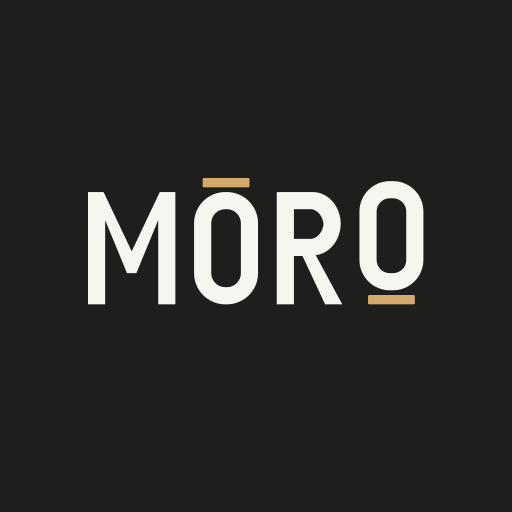
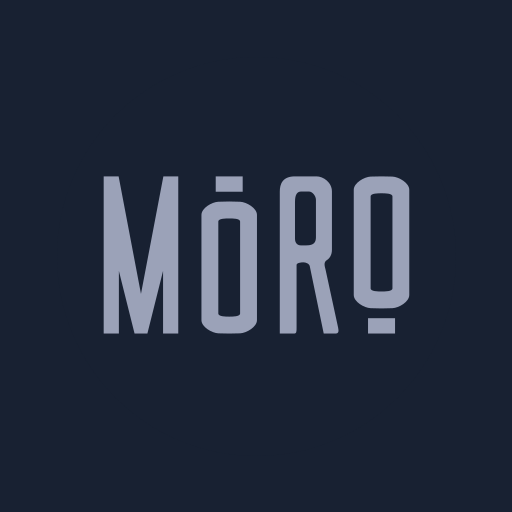
feat(moro): identidad visual definitiva Azul Noche (#182132) + Gris Hielo (#9BA2B8), 15 assets oficiales y ZPL ^GFA 1-bit

Changed region(s): [[0.1562, 0.3438, 0.8438, 0.6562]]

diff --git a/src/produccion/scripts/migrarPerfilesOperativosNodos.js b/src/produccion/scripts/migrarPerfilesOperativosNodos.js
@@ -184,12 +184,121 @@ async function migrarPerfilesOperativosNodos(opciones = {}) {
                     color_primario: nuevoColor
                 });
             }
+        } else if (slugLower === 'moro') {
+            const yaEsLocales = String(row.perfil_operativo || '').trim() === 'LOCALES';
+            const tieneModulos = row.modulos_activos && typeof row.modulos_activos === 'object' && Object.keys(row.modulos_activos).length > 0;
+            const tieneNuevasPerillas = Boolean(row.modulos_activos?.abastecimiento_modo && row.modulos_activos?.etiqueta_zpl_formato);
+
+            const tvActual = (row.tema_visual && typeof row.tema_visual === 'object') ? row.tema_visual : {};
+            const cfgZplActual = (row.logo_zpl_config && typeof row.logo_zpl_config === 'object') ? row.logo_zpl_config : {};
+            const temaOficial = nodosService.TEMA_VISUAL_MORO_OFICIAL;
+            const cfgZplOficial = nodosService.LOGO_ZPL_CONFIG_MORO_OFICIAL;
+            const zebraDataUrl = nodosService.leerLogoZebraMoroDataUrl();
+            const gfaBytesPerRow = Math.ceil(cfgZplOficial.width / 8);
+            const gfaTotalBytes = gfaBytesPerRow * cfgZplOficial.height;
+            const gfaPrefixOficial = `^GFA,${gfaTotalBytes},${gfaTotalBytes},${gfaBytesPerRow},`;
+
+            const colorPrimarioActual = String(row.color_primario || '').trim().toLowerCase();
+            const faltaIdentidadOficialMoro =
+                !colorPrimarioActual ||
+                colorPrimarioActual === '#1e1e1c' ||
+                colorPrimarioActual !== '#182132' ||
+                tvActual?.logo_incluye_texto !== true ||
+                tvActual?.logos?.principal !== temaOficial.logos.principal ||
+                tvActual?.logos?.horizontal !== temaOficial.logos.horizontal ||
+                tvActual?.logos?.vertical !== temaOficial.logos.vertical ||
+                tvActual?.logos?.isotipo !== temaOficial.logos.isotipo ||
+                tvActual?.logos?.og_share !== temaOficial.logos.og_share ||
+                tvActual?.logos?.favicon_svg !== temaOficial.logos.favicon_svg ||
+                tvActual?.paleta?.primario !== temaOficial.paleta.primario ||
+                tvActual?.paleta?.primario_oscuro !== temaOficial.paleta.primario_oscuro ||
+                tvActual?.paleta?.terracota !== temaOficial.paleta.terracota ||
+                tvActual?.paleta?.fondo !== temaOficial.paleta.fondo ||
+                tvActual?.paleta?.superficie_calida !== temaOficial.paleta.superficie_calida ||
+                tvActual?.paleta?.ocre !== temaOficial.paleta.ocre ||
+                tvActual?.paleta?.amarillo_sol !== temaOficial.paleta.amarillo_sol ||
+                tvActual?.paleta?.pistacho !== temaOficial.paleta.pistacho ||
+                tvActual?.paleta?.borde !== temaOficial.paleta.borde ||
+                cfgZplActual?.modo_cabecera !== 'banner_completo' ||
+                Number(cfgZplActual?.width || 0) !== cfgZplOficial.width ||
+                Number(cfgZplActual?.height || 0) !== cfgZplOficial.height ||
+                Number(cfgZplActual?.padding ?? -1) !== cfgZplOficial.padding ||
+                !String(row.logo_zpl_gfa || '').startsWith(gfaPrefixOficial) ||
+                (Boolean(zebraDataUrl) && String(row.logo_original_base64 || '') !== zebraDataUrl);
+
+            const modulosMoro = nodosService.resolverModulosActivosNodo({
+                perfil_operativo: 'LOCALES',
+                modulos_activos: tieneModulos ? row.modulos_activos : {},
+                cobro_efectivo_entrega: row.cobro_efectivo_entrega ?? false,
+                permitir_retiro_nodo: row.permitir_retiro_nodo,
+                permitir_reparto_propio: row.permitir_reparto_propio,
+                permitir_envio_barrial: row.permitir_envio_barrial,
+                permitir_encomienda: row.permitir_encomienda
+            });
+
+            if (!yaEsLocales || !tieneModulos || !tieneNuevasPerillas || faltaIdentidadOficialMoro) {
+                let zplGfaFinal = row.logo_zpl_gfa || null;
+                let zplMonoPreviewFinal = row.logo_mono_preview_base64 || null;
+                const necesitaRegenerarZpl =
+                    Boolean(zebraDataUrl) && (
+                        !String(row.logo_zpl_gfa || '').startsWith(gfaPrefixOficial) ||
+                        String(row.logo_original_base64 || '') !== zebraDataUrl ||
+                        Number(cfgZplActual?.width || 0) !== cfgZplOficial.width ||
+                        Number(cfgZplActual?.height || 0) !== cfgZplOficial.height ||
+                        Number(cfgZplActual?.padding ?? -1) !== cfgZplOficial.padding
+                    );
+
+                if (necesitaRegenerarZpl) {
+                    const conv = await nodosService.convertirLogoAZplGfa({
+                        imageBase64: zebraDataUrl,
+                        nombreMarca: 'MORO',
+                        iniciales: cfgZplOficial.iniciales || 'MO',
+                        width: cfgZplOficial.width,
+                        height: cfgZplOficial.height,
+                        threshold: cfgZplOficial.threshold,
+                        mode: cfgZplOficial.mode,
+                        padding: cfgZplOficial.padding,
+                        invert: false
+                    });
+                    zplGfaFinal = conv.logo_zpl_gfa;
+                    zplMonoPreviewFinal = conv.logo_mono_preview_base64;
+                }
+
+                await db.query(
+                    `UPDATE public.nodos_maestro SET
+                        perfil_operativo = 'LOCALES',
+                        color_primario = $2,
+                        tema_visual = $3::jsonb,
+                        logo_original_base64 = COALESCE($4, logo_original_base64),
+                        logo_mono_preview_base64 = COALESCE($5, logo_mono_preview_base64),
+                        logo_zpl_gfa = COALESCE($6, logo_zpl_gfa),
+                        logo_zpl_config = $7::jsonb,
+                        modulos_activos = $8::jsonb,
+                        updated_at = NOW()
+                     WHERE id = $1`,
+                    [
+                        row.id,
+                        '#182132',
+                        JSON.stringify(temaOficial),
+                        zebraDataUrl || null,
+                        zplMonoPreviewFinal,
+                        zplGfaFinal,
+                        JSON.stringify(cfgZplOficial),
+                        JSON.stringify(modulosMoro)
+                    ]
+                );
+                actualizados.push({
+                    id: row.id,
+                    slug: row.slug,
+                    perfil_operativo: 'LOCALES',
+                    color_primario: '#182132',
+                    zpl_regenerado: necesitaRegenerarZpl
+                });
+            }
         } else {
-            // Paraíso -> VECINOS, Moro -> LOCALES y cualquier otro nodo normalizan su perfil canónico
+            // Paraíso -> VECINOS y cualquier otro nodo normalizan su perfil canónico
             // preservando 100% de sus overrides de Capa B y su estética actual
-            const perfilCanon = slugLower === 'moro'
-                ? 'LOCALES'
-                : nodosService.normalizarPerfilOperativoNodo(row.perfil_operativo || 'VECINOS');
+            const perfilCanon = nodosService.normalizarPerfilOperativoNodo(row.perfil_operativo || 'VECINOS');
             const tieneModulos = row.modulos_activos && typeof row.modulos_activos === 'object' && Object.keys(row.modulos_activos).length > 0;
             const tieneNuevasPerillas = Boolean(row.modulos_activos?.abastecimiento_modo && row.modulos_activos?.etiqueta_zpl_formato);
             const perfilExacto = String(row.perfil_operativo || '').trim() === perfilCanon;

diff --git a/src/produccion/services/nodosBarrialesService.js b/src/produccion/services/nodosBarrialesService.js
@@ -567,25 +567,25 @@ function leerLogoZebraMansoDataUrl() {
     return null;
 }
 
-// Paleta oficial Bodega Urbana de MORO (Pizarra Mate #1E1E1C + Piedra Cálida #F7F5F0 + Madera Barrica #B8894A)
+// Paleta oficial extraída de los SVG vectoriales definitivos de MORO (Azul Noche Pizarra #182132 + Gris Hielo #9BA2B8)
 const TEMA_VISUAL_MORO_OFICIAL = {
     paleta: {
-        primario: '#1E1E1C',
-        primario_oscuro: '#111110',
-        terracota: '#1E1E1C',
-        terracota_oscuro: '#111110',
-        ocre: '#B8894A',
-        pistacho: '#2D5A3C',
-        pistacho_texto: '#2D5A3C',
-        pistacho_suave: '#EAF2EC',
-        amarillo_sol: '#D4A96A',
-        fondo: '#F7F5F0',
-        fondo_icono_tienda: '#1E1E1C',
-        superficie_calida: '#EFEAE0',
+        primario: '#182132',
+        primario_oscuro: '#111826',
+        terracota: '#182132',
+        terracota_oscuro: '#111826',
+        ocre: '#5C6E91',
+        pistacho: '#4E7F6B',
+        pistacho_texto: '#235342',
+        pistacho_suave: '#EAF3EF',
+        amarillo_sol: '#9BA2B8',
+        fondo: '#F4F6FA',
+        fondo_icono_tienda: '#182132',
+        superficie_calida: '#E9EDF5',
         tarjeta: '#FFFFFF',
-        texto: '#1E1E1C',
-        texto_secundario: '#5C574F',
-        borde: '#DFD8C8'
+        texto: '#182132',
+        texto_secundario: '#525C73',
+        borde: '#D5DCE8'
     },
     tipografia: {
         familia: "'Nunito', sans-serif",
@@ -612,11 +612,11 @@ const TEMA_VISUAL_MORO_OFICIAL = {
 };
 
 const LOGO_ZPL_CONFIG_MORO_OFICIAL = {
-    width: 280,
+    width: 368,
     height: 58,
-    threshold: 150,
+    threshold: 145,
     mode: 'threshold',
-    padding: 2,
+    padding: 4,
     invert: false,
     modo_cabecera: 'banner_completo',
     iniciales: 'MO'

diff --git a/src/produccion/scripts/provisionarNodoMoro.js b/src/produccion/scripts/provisionarNodoMoro.js
@@ -213,7 +213,7 @@ async function provisionarNodoMoro(opciones = {}) {
             cargo_envio_barrial: 0,
             margen_gestor_default_pct: 28,
             config_ventanas_corte: MORO_VENTANAS_CORTE,
-            color_primario: '#1E1E1C',
+            color_primario: '#182132',
             latitud: -34.903948,
             longitud: -57.964282,
             logo_original_base64: zebraDataUrl,
